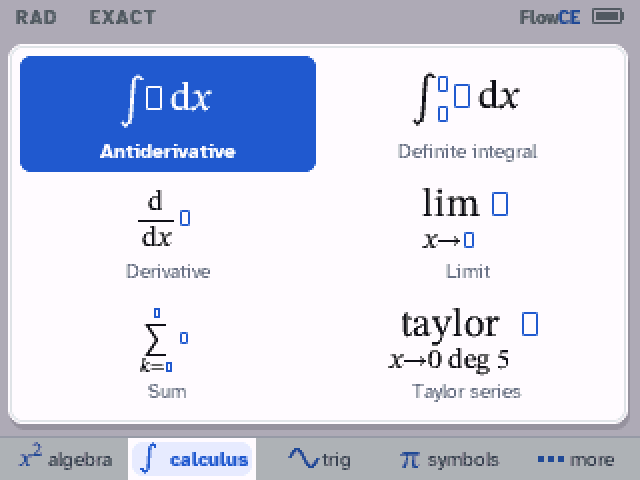
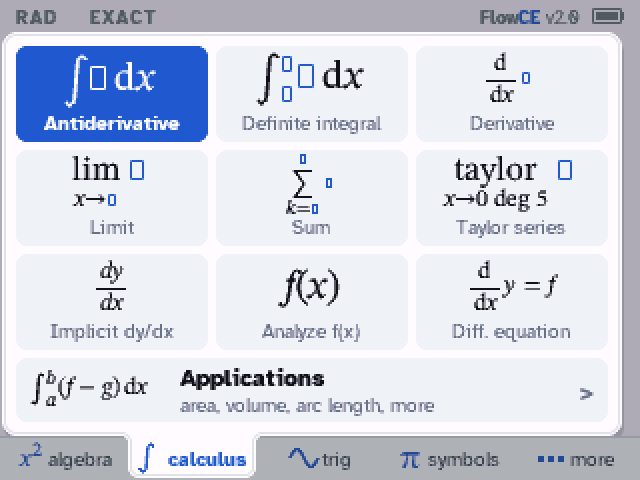
README: the applications' form; menus, fit and probability screenshots retaken
apps_form (a showcase scene now) replaces the applications' card in the README's table; the
screenshots with an open tab or a restyled page come from the current build.

diff --git a/tools/emu/showcase.py b/tools/emu/showcase.py
@@ -56,6 +56,7 @@ SCENES = {
     # the steps build's applications: the calculus card (item 10: the 0 key), area typed in its labeled boxes
     'menu_calc3':     [('k', '{window}')],
     'menu_apps':      [('k', '{window}0'), ('w', 800)],
+    'apps_form':      [('k', '{window}0'), ('w', 1500), ('k', '1'), ('w', 900), ('k', 'x+2{enter}x{sq}{enter}'), ('w', 600)],
     'apps_area_tpl':  [('k', '{window}01x{sq}{right}x+2'), ('w', 800)],
     'apps_area':      [('k', '{window}01x{sq}{right}x+2{enter}'), ('w', 3000)],
     'apps_area_steps': [('k', '{window}01x{sq}{right}x+2{enter}'), ('w', 3000), ('k', '{enter}'), ('w', 8000)],

diff --git a/README.md b/README.md
@@ -57,13 +57,13 @@ quadratic formula, elimination...); a part worked out on the side gets its own s
 | a system, by elimination | a sum, partial fractions | an inequality |
 
 **Calculus → Applications** (the `0` key on the calculus menu): area between curves, volumes by
-washers or shells, arc length, surface area and average value, with labeled input boxes and worked
-steps. Under each answer, `▶` offers what to do next: factor, solve = 0, graph, the derivative...
+washers or shells, arc length, surface area and average value, each in a form that asks for its
+curves and bounds in words, with worked steps. Under each answer, `▶` offers what to do next: factor, solve = 0, graph, the derivative...
 
 | | | |
 |:-:|:-:|:-:|
-| ![Applications of calculus menu](docs/screenshots/menu_apps.png) | ![Area between curves, with steps](docs/screenshots/apps_area_steps.png) | ![The row of actions under an answer](docs/screenshots/action_row.png) |
-| Calculus → Applications | find crossings, then the area | `▶`: what to do next |
+| ![The form of Area between curves: between y = x + 2 and y = x², from and to where they meet](docs/screenshots/apps_form.png) | ![Area between curves, with steps](docs/screenshots/apps_area_steps.png) | ![The row of actions under an answer](docs/screenshots/action_row.png) |
+| Calculus → Applications: a form | find crossings, then the area | `▶`: what to do next |
 | ![The graph screen: key points of x³ − 3x](docs/screenshots/graph_points.png) | ![analyze: domain, intercepts, asymptotes](docs/screenshots/analyze.png) | ![A line fitted to data](docs/screenshots/stats_fit.png) |
 | the graph screen, key points | `analyze(f)` | statistics: a fitted line |
 
